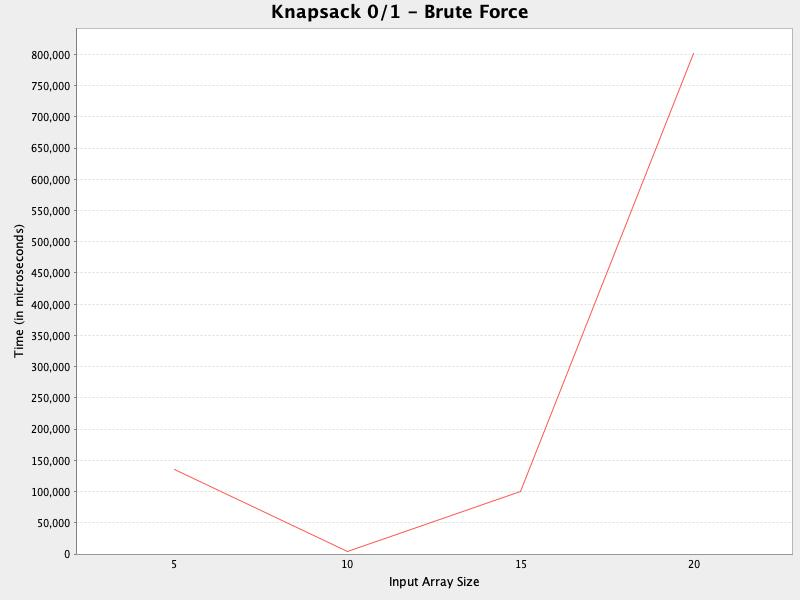
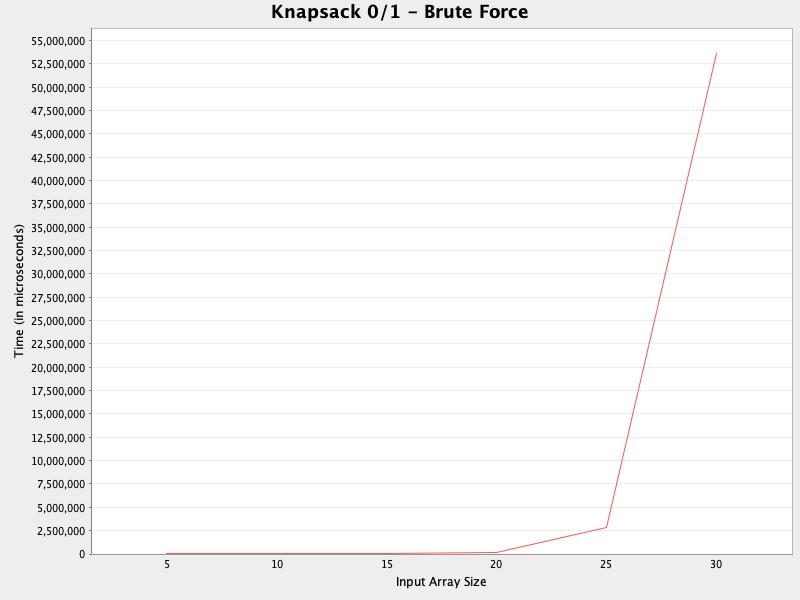
Added new print statements to my 01 bruteforce, added Mycole's methods to main, edited dynamic for fractional to use params that we have, added print statement into dynamic classes for both 01 and fractional (for working parts)

diff --git a/src/FractionalKnapsack/Main.java b/src/FractionalKnapsack/Main.java
@@ -49,8 +49,8 @@ public class Main {
         times.add(FractionalKnapsack.BruteForce.knapSack(knapsack10.getValues(), knapsack10.getWeights(), knapsack10.getMaxWeight(), knapsack10.getTotalItems(), knapsack10.getKnapsackNumber()));
         times.add(FractionalKnapsack.BruteForce.knapSack(knapsack15.getValues(), knapsack15.getWeights(), knapsack15.getMaxWeight(), knapsack15.getTotalItems(), knapsack15.getKnapsackNumber()));
         times.add(FractionalKnapsack.BruteForce.knapSack(knapsack20.getValues(), knapsack20.getWeights(), knapsack20.getMaxWeight(), knapsack20.getTotalItems(), knapsack20.getKnapsackNumber()));
-        //times.add(FractionalKnapsack.BruteForce.knapSack(knapsack25.getValues(), knapsack25.getWeights(), knapsack25.getMaxWeight(), knapsack25.getTotalItems(), knapsack25.getKnapsackNumber()));
-        //times.add(FractionalKnapsack.BruteForce.knapSack(knapsack30.getValues(), knapsack30.getWeights(), knapsack30.getMaxWeight(), knapsack30.getTotalItems(), knapsack30.getKnapsackNumber()));
+        times.add(FractionalKnapsack.BruteForce.knapSack(knapsack25.getValues(), knapsack25.getWeights(), knapsack25.getMaxWeight(), knapsack25.getTotalItems(), knapsack25.getKnapsackNumber()));
+        times.add(FractionalKnapsack.BruteForce.knapSack(knapsack30.getValues(), knapsack30.getWeights(), knapsack30.getMaxWeight(), knapsack30.getTotalItems(), knapsack30.getKnapsackNumber()));
 
 
         //create line chart, clear the array list for the next set of times

diff --git a/src/Knapsack01/Main.java b/src/Knapsack01/Main.java
@@ -47,8 +47,8 @@ public class Main {
 		times.add(BruteForce.bruteForceKnapsack01(knapsack10.getWeights(), knapsack10.getValues(), knapsack10.getMaxWeight(),knapsack10.getKnapsackNumber()));
 		times.add(BruteForce.bruteForceKnapsack01(knapsack15.getWeights(), knapsack15.getValues(), knapsack15.getMaxWeight(), knapsack15.getKnapsackNumber()));
 		times.add(BruteForce.bruteForceKnapsack01(knapsack20.getWeights(), knapsack20.getValues(), knapsack20.getMaxWeight(), knapsack20.getKnapsackNumber()));
-		//times.add(BruteForce.bruteForceKnapsack01(knapsack25.getWeights(), knapsack25.getValues(), knapsack25.getMaxWeight(), knapsack25.getKnapsackNumber()));
-		//times.add(BruteForce.bruteForceKnapsack01(knapsack30.getWeights(), knapsack30.getValues(), knapsack30.getMaxWeight(), knapsack30.getKnapsackNumber()));
+		times.add(BruteForce.bruteForceKnapsack01(knapsack25.getWeights(), knapsack25.getValues(), knapsack25.getMaxWeight(), knapsack25.getKnapsackNumber()));
+		times.add(BruteForce.bruteForceKnapsack01(knapsack30.getWeights(), knapsack30.getValues(), knapsack30.getMaxWeight(), knapsack30.getKnapsackNumber()));
 
 		//create line chart, clear the array list for the next set of times
 		k01BruteForceChart.lineChart(times, "./images/k01_bruteForce.jpg");

diff --git a/src/Knapsack01/Dynamic.java b/src/Knapsack01/Dynamic.java
@@ -24,6 +24,7 @@ public class Dynamic {
         // Table to store the maximum value that can be achieved using the first i items and weight j
         int dp[][] = new int[n + 1][W + 1];
 
+
         // Build the table dp[][] in bottom up manner
         for (int i = 0; i <= n; i++) {
             for (int w = 0; w <= W; w++) {
